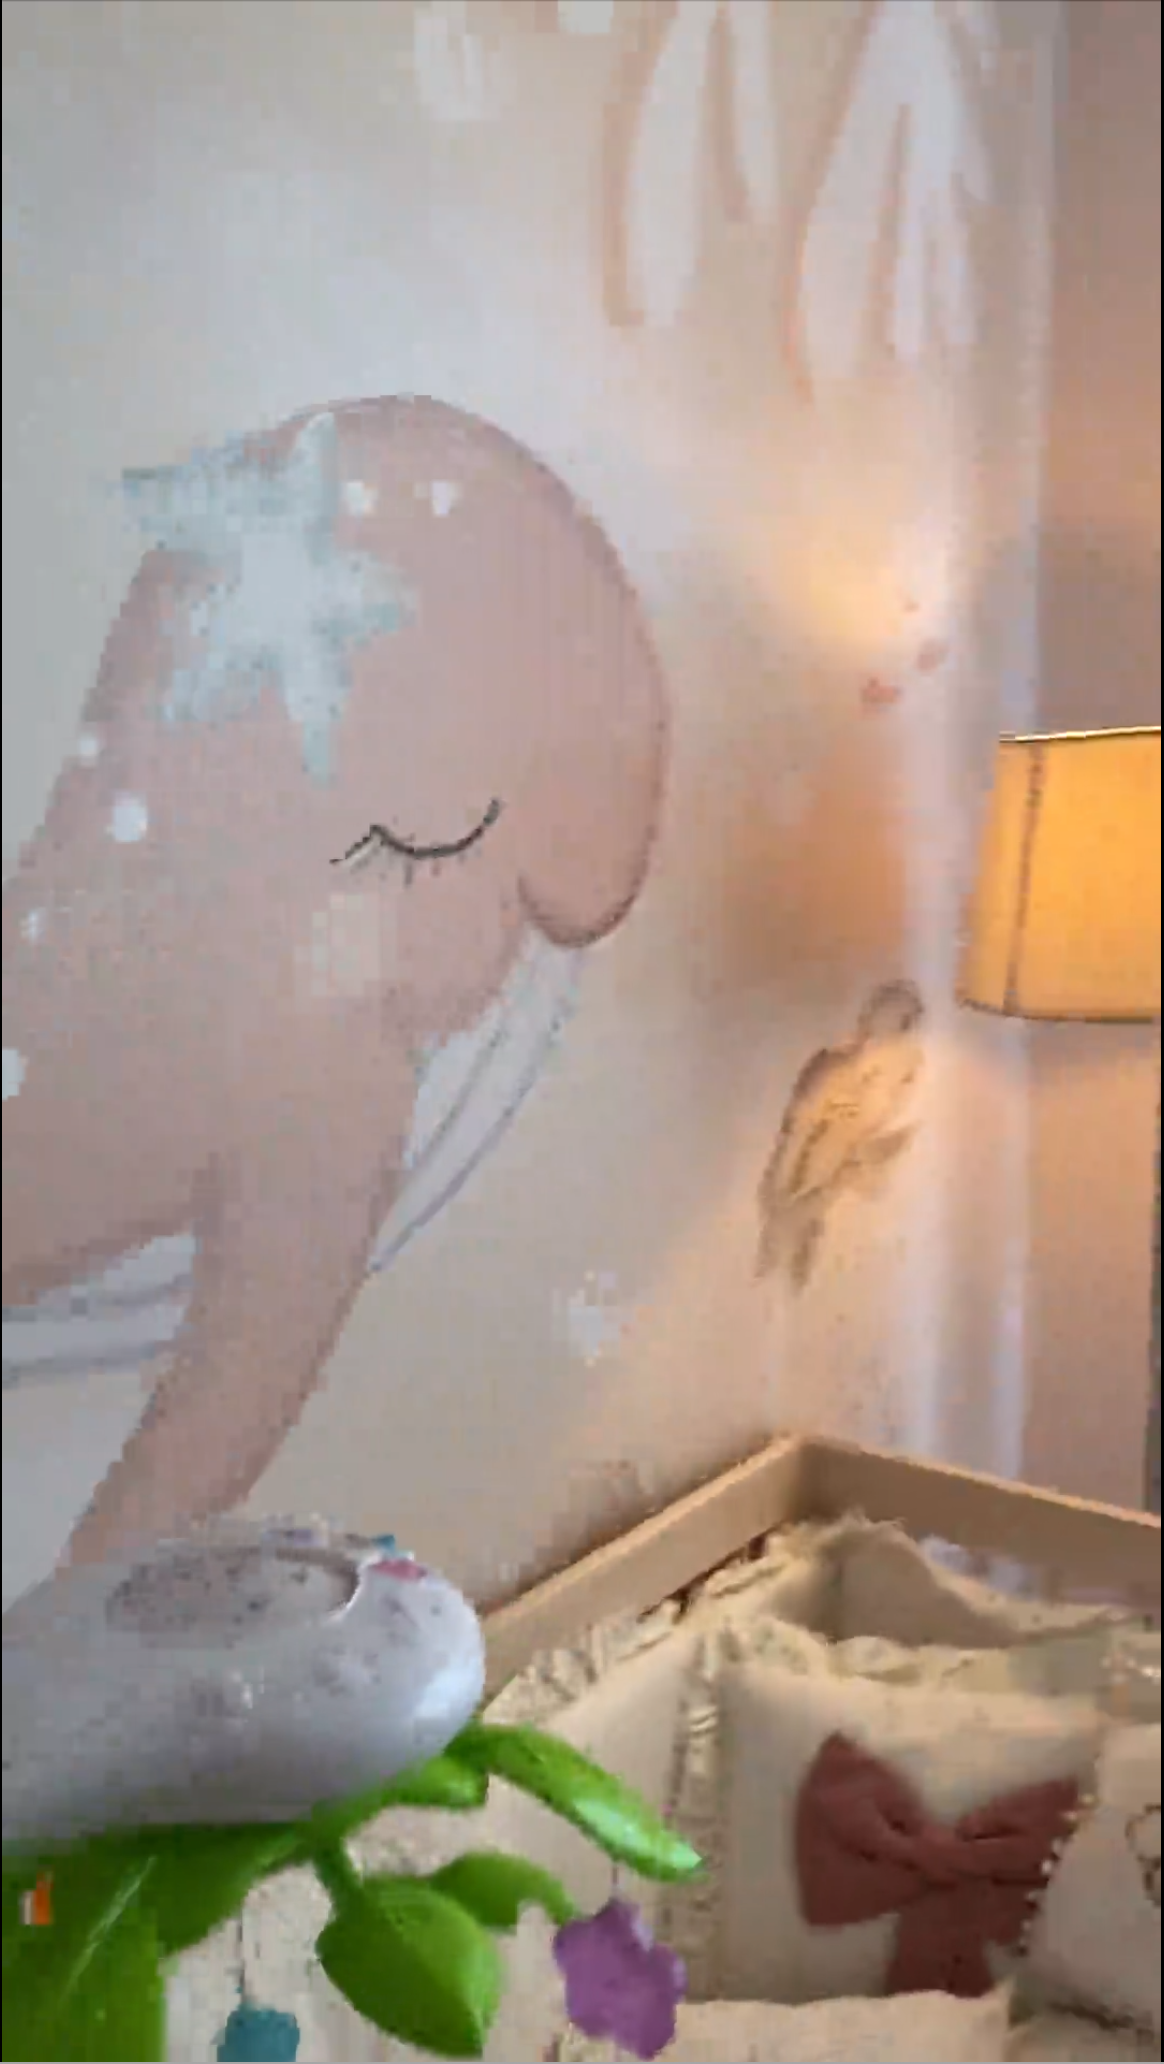
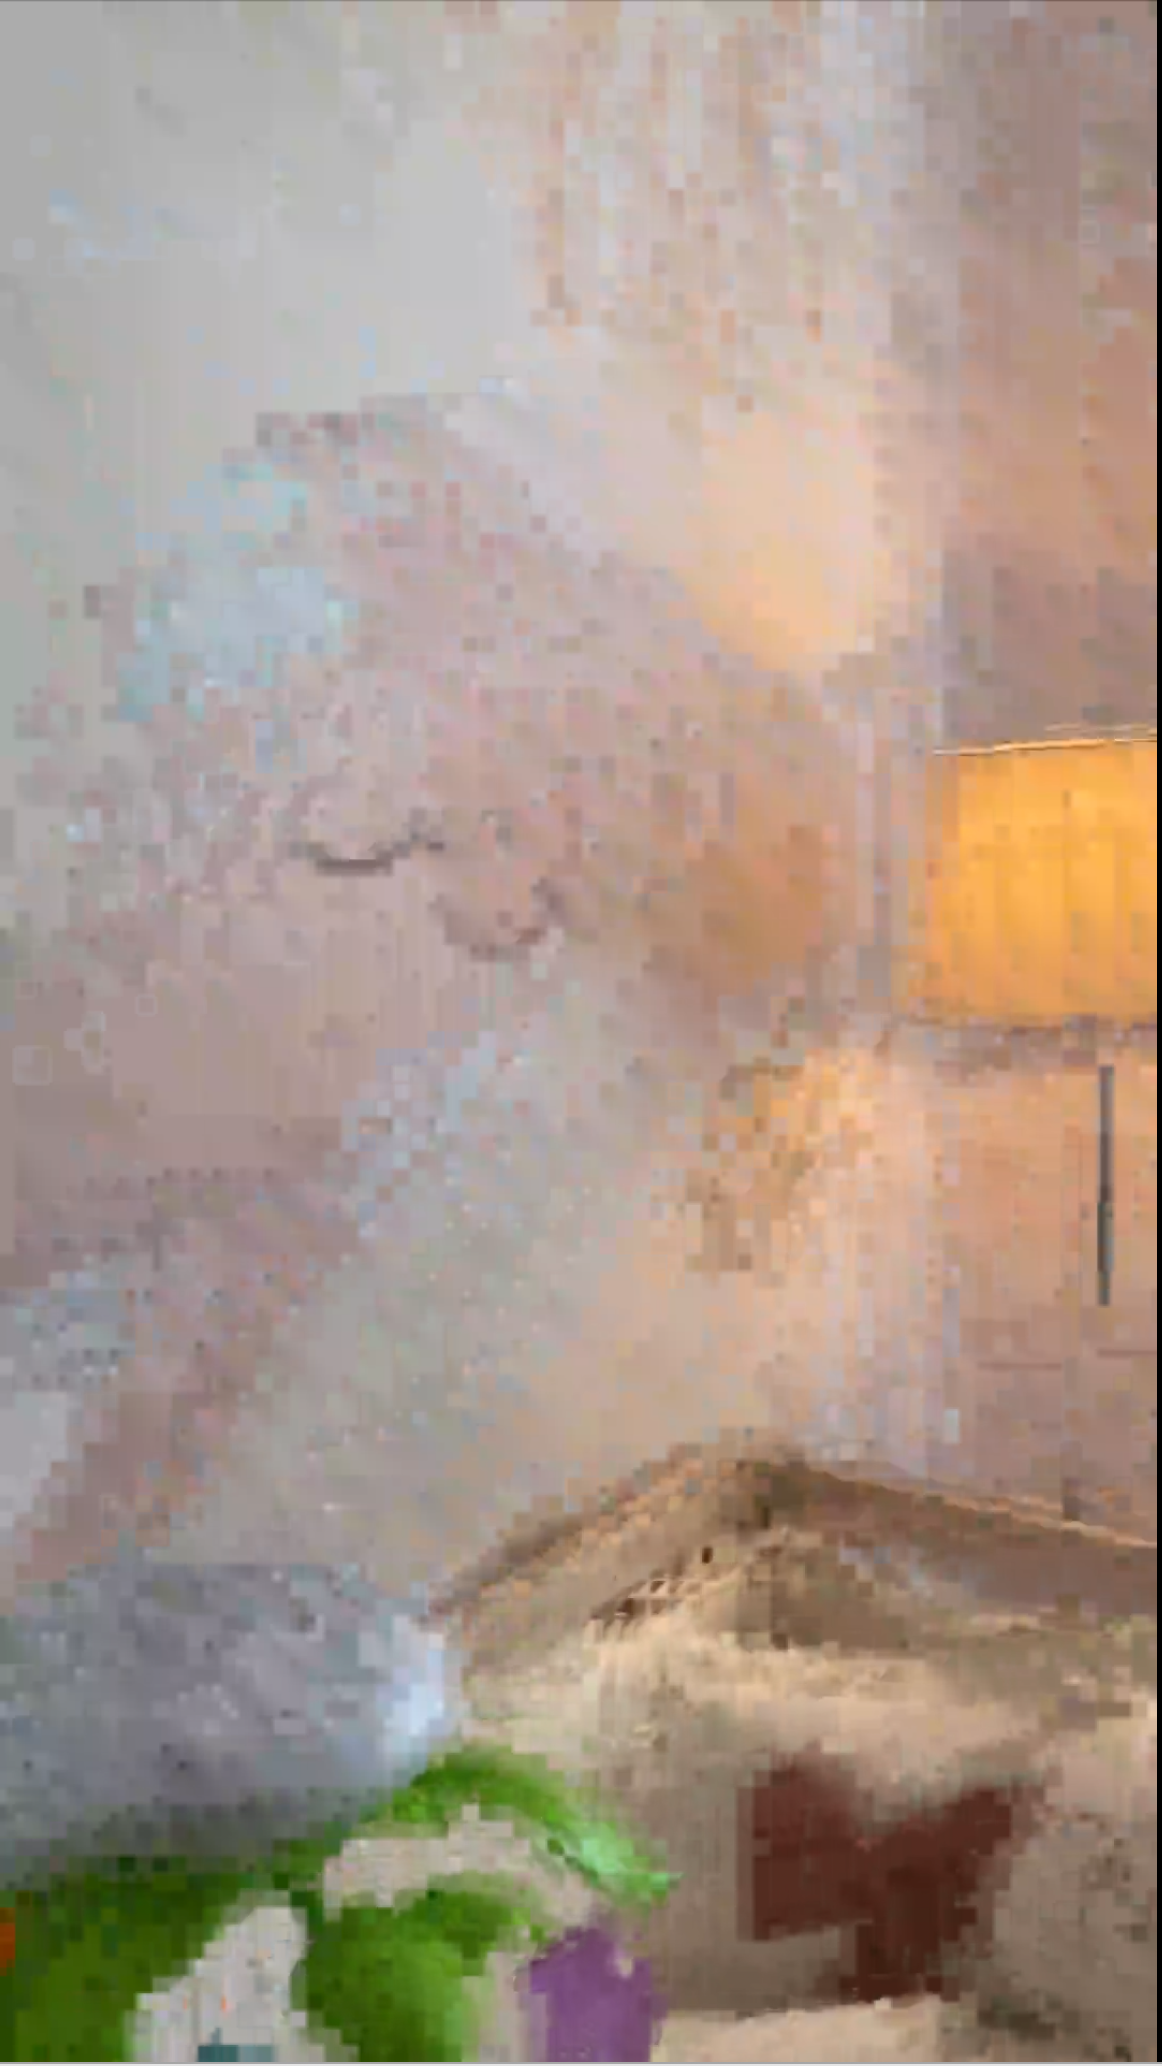
Codecs and compression, Ill take my dog out

diff --git a/README.md b/README.md
@@ -2,9 +2,17 @@
 
 ## Codecs and compression
 
-Screenshot from original video
+Compression is the process of take a given input (can be a message, video, audio, files, etc) and transmit its content with less information. Depending on the application, this can support package loss or not.
 
-[[/images/Bitrate-Original_01.png|ALT TEXT]]
+
+When doing video compression it's really important keep a tradeoff between video resolution and bitrate, in the following example we have a comparisson of a screenshot from an original video and the same video, with the same resolution with lower bitrate, from 10 Mbps was reduced to 0.5 Mbps.
+
+original    vs     0.5M bitrate
+
+<img src="images/Bitrate-Original_01.png" width="49%" height="50%">
+<img src="images/Bitrate-1m_01.png" width="49%" height="50%">
+
+In conclosion we are trying to make fit a big picture of big resolution on a "small tube".
 
 ## Bitrate
 
@@ -19,3 +27,9 @@ Screenshot from original video
 
 
 ## Deinterlacing
+
+
+## Sources
+
+1. I'm following a structure similar to the one [Jan Ozer](https://www.linkedin.com/in/jan-ozer/) used on his course at [Udemy](https://www.udemy.com/course/compressing-video-for-web-disc-and-pctvconsole-playback/).
+2. 
